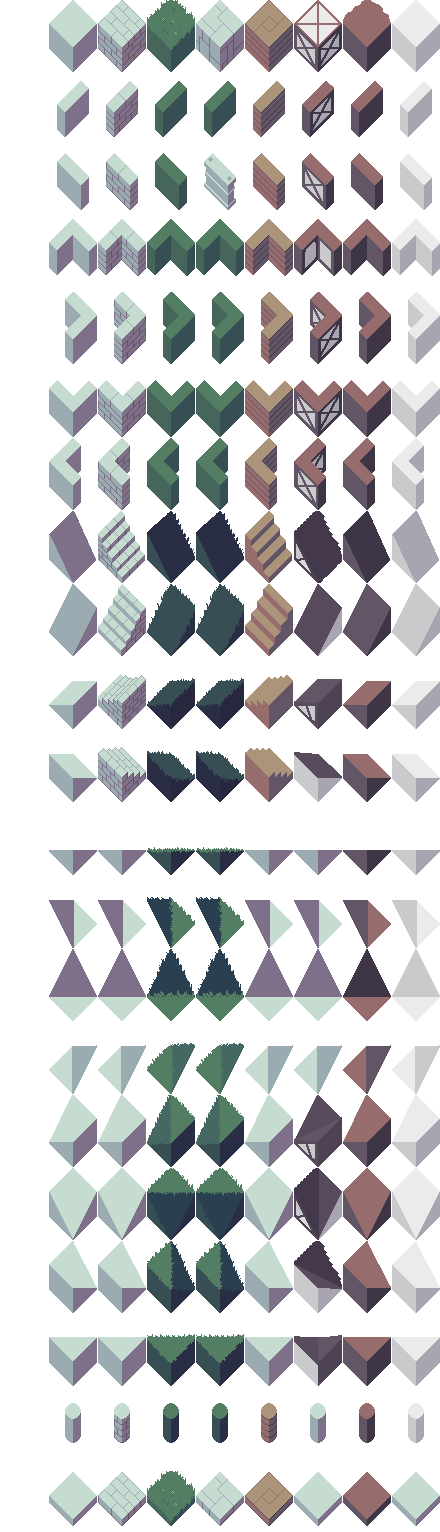
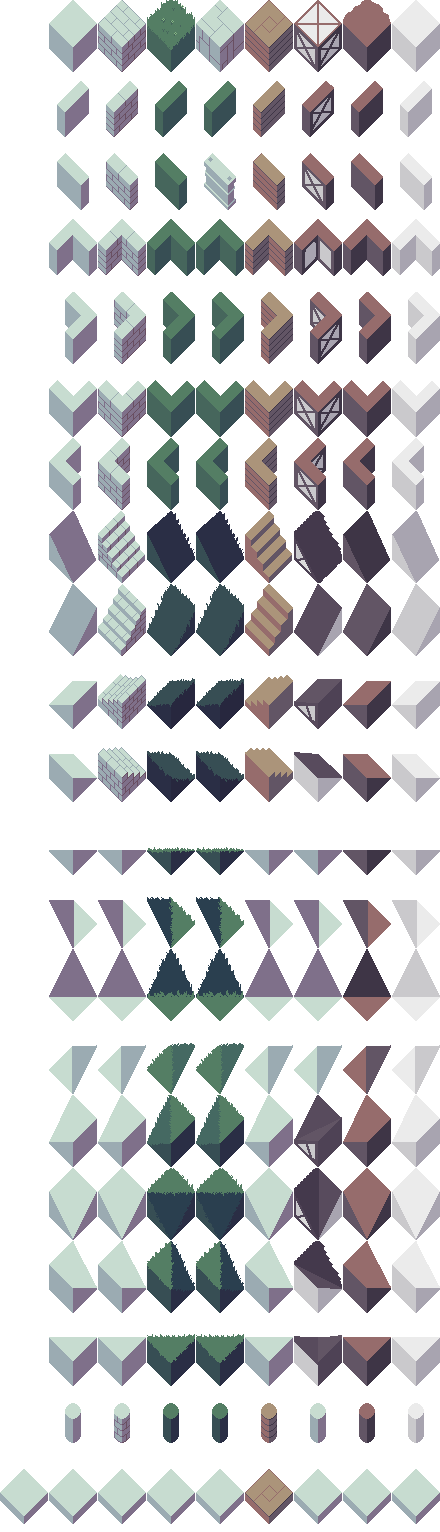
v0.6.612

diff --git a/gamestream_flutter/lib/render/render_node.dart b/gamestream_flutter/lib/render/render_node.dart
@@ -218,4 +218,62 @@ class RenderNode {
     );
   }
 
+
+  static void renderStandardNodeHalfVerticalTop({
+    required double srcX,
+    required double srcY,
+    int color = 1,
+  }){
+    GameRender.onscreenNodes++;
+    Engine.renderSprite(
+      image: atlas,
+      srcX: srcX,
+      srcY: srcY,
+      srcWidth: GameConstants.Sprite_Width,
+      srcHeight: GameConstants.Sprite_Height,
+      dstX: GameRender.currentNodeDstX,
+      dstY: GameRender.currentNodeDstY - 12,
+      anchorY: GameConstants.Sprite_Anchor_Y,
+      color: color,
+    );
+  }
+
+  static void renderStandardNodeHalfVerticalCenter({
+    required double srcX,
+    required double srcY,
+    int color = 1,
+  }){
+    GameRender.onscreenNodes++;
+    Engine.renderSprite(
+      image: atlas,
+      srcX: srcX,
+      srcY: srcY,
+      srcWidth: GameConstants.Sprite_Width,
+      srcHeight: GameConstants.Sprite_Height,
+      dstX: GameRender.currentNodeDstX,
+      dstY: GameRender.currentNodeDstY - 4,
+      anchorY: GameConstants.Sprite_Anchor_Y,
+      color: color,
+    );
+  }
+
+  static void renderStandardNodeHalfVerticalBottom({
+    required double srcX,
+    required double srcY,
+    int color = 1,
+  }){
+    GameRender.onscreenNodes++;
+    Engine.renderSprite(
+      image: atlas,
+      srcX: srcX,
+      srcY: srcY,
+      srcWidth: GameConstants.Sprite_Width,
+      srcHeight: GameConstants.Sprite_Height,
+      dstX: GameRender.currentNodeDstX,
+      dstY: GameRender.currentNodeDstY + 4,
+      anchorY: GameConstants.Sprite_Anchor_Y,
+      color: color,
+    );
+  }
+
 }

diff --git a/gamestream_flutter/lib/isometric/nodes/render/render_node.dart b/gamestream_flutter/lib/isometric/nodes/render/render_node.dart
@@ -345,6 +345,24 @@ void renderNodeTemplateShaded(double srcX) {
         srcY: GameConstants.Sprite_Height_Padded_19,
       );
       return;
+    case NodeOrientation.Half_Vertical_Top:
+      RenderNode.renderStandardNodeHalfVerticalTop(
+        srcX: srcX,
+        srcY: GameConstants.Sprite_Height_Padded_20,
+      );
+      return;
+    case NodeOrientation.Half_Vertical_Center:
+      RenderNode.renderStandardNodeHalfVerticalCenter(
+        srcX: srcX,
+        srcY: GameConstants.Sprite_Height_Padded_20,
+      );
+      return;
+    case NodeOrientation.Half_Vertical_Bottom:
+      RenderNode.renderStandardNodeHalfVerticalBottom(
+        srcX: srcX,
+        srcY: GameConstants.Sprite_Height_Padded_20,
+      );
+      return;
   }
 }
 

diff --git a/bleed-common/lib/src/version.dart b/bleed-common/lib/src/version.dart
@@ -1,4 +1,4 @@
-const version = 'v0.6.611';
+const version = 'v0.6.612';
 
 
 

diff --git a/bleed-server/lib/common/src/version.dart b/bleed-server/lib/common/src/version.dart
@@ -1,4 +1,4 @@
-const version = 'v0.6.611';
+const version = 'v0.6.612';
 
 
 
